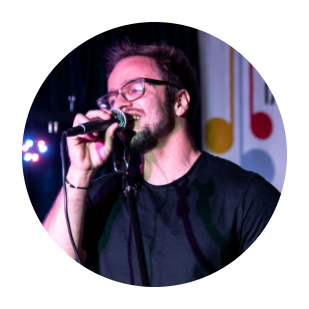
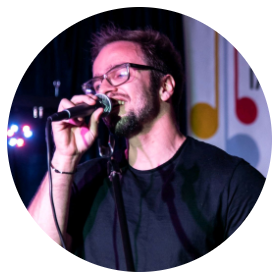
fixed it better

diff --git a/src/components/Navbar.jsx b/src/components/Navbar.jsx
@@ -16,7 +16,7 @@ function Navbar() {
                     objectPosition: 'center',
                     borderRadius: '50%',
                     marginBottom: '1rem',
-                    transform: 'scale(1.1)' // zooms in ~10%, about 0.5cm visually
+                    transform: 'scale(1.2)' // zooms in ~10%, about 0.5cm visually
                 }}
             />
             <button onClick={() => navigate('/')}>Home</button>
